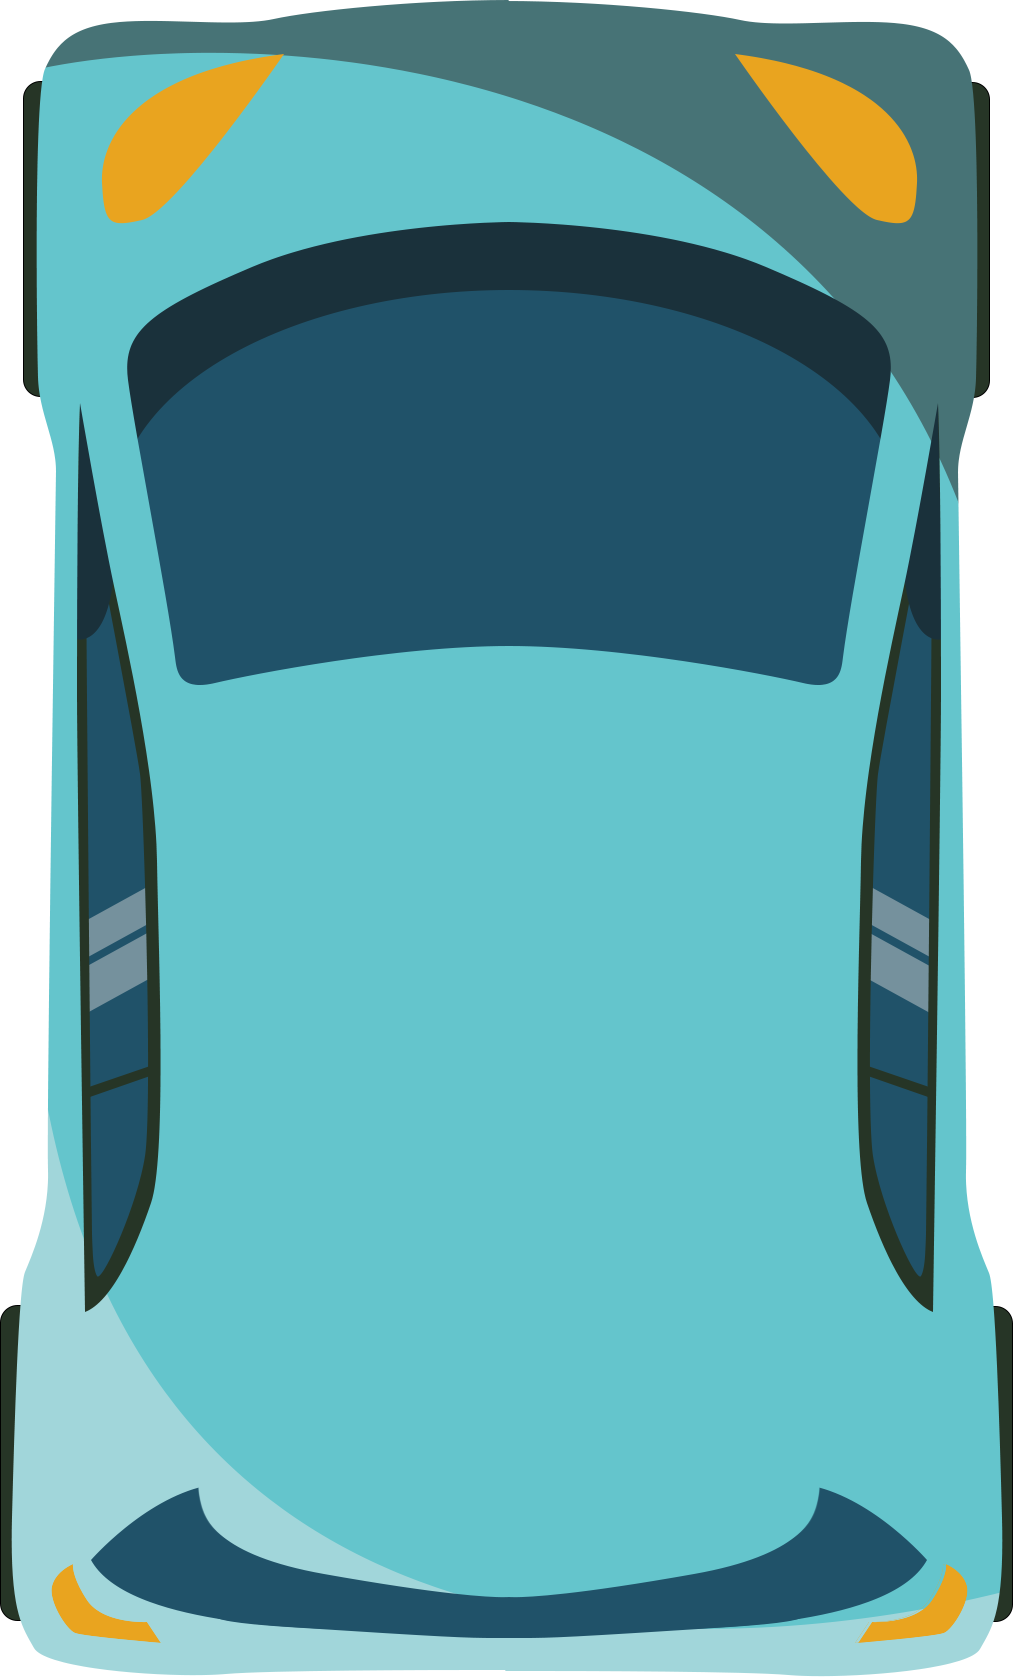
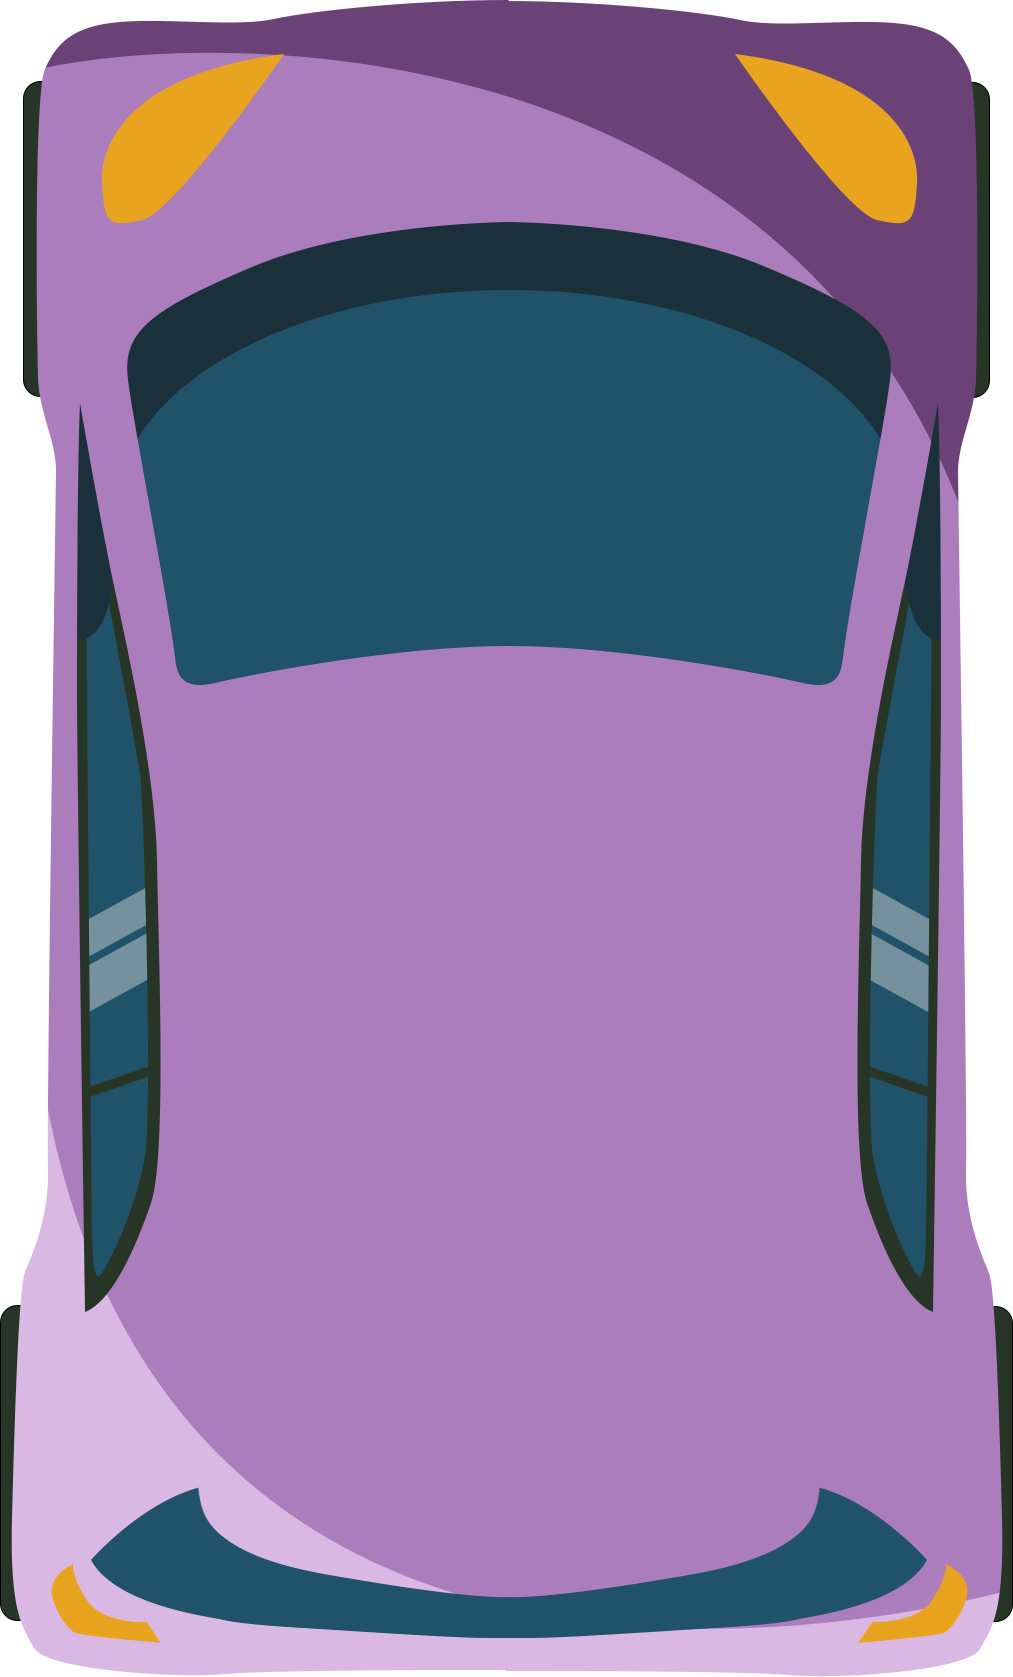
#frontend: 5th color + color adjustments

diff --git a/frontend/src/assets/themes/ecopolis.scss b/frontend/src/assets/themes/ecopolis.scss
@@ -2,9 +2,9 @@
   $color-highlight: #d355b5 !global;
   $color-highlight-light: #e086cb !global;
   $color-highlight-dark: #945d89 !global;
-  $color-playing: #d355b5 !global;
-  $color-playing-light: #e086cb !global;
-  $color-playing-dark: #871a70 !global;
+  $color-playing: #ac7dbc !global;
+  $color-playing-light: #d9b9e4 !global;
+  $color-playing-dark: #6b4278 !global;
   $color-structuring: #e7a320 !global;
   $color-structuring-light: #e2d08c !global;
   $color-structuring-dark: #000000 !global;
